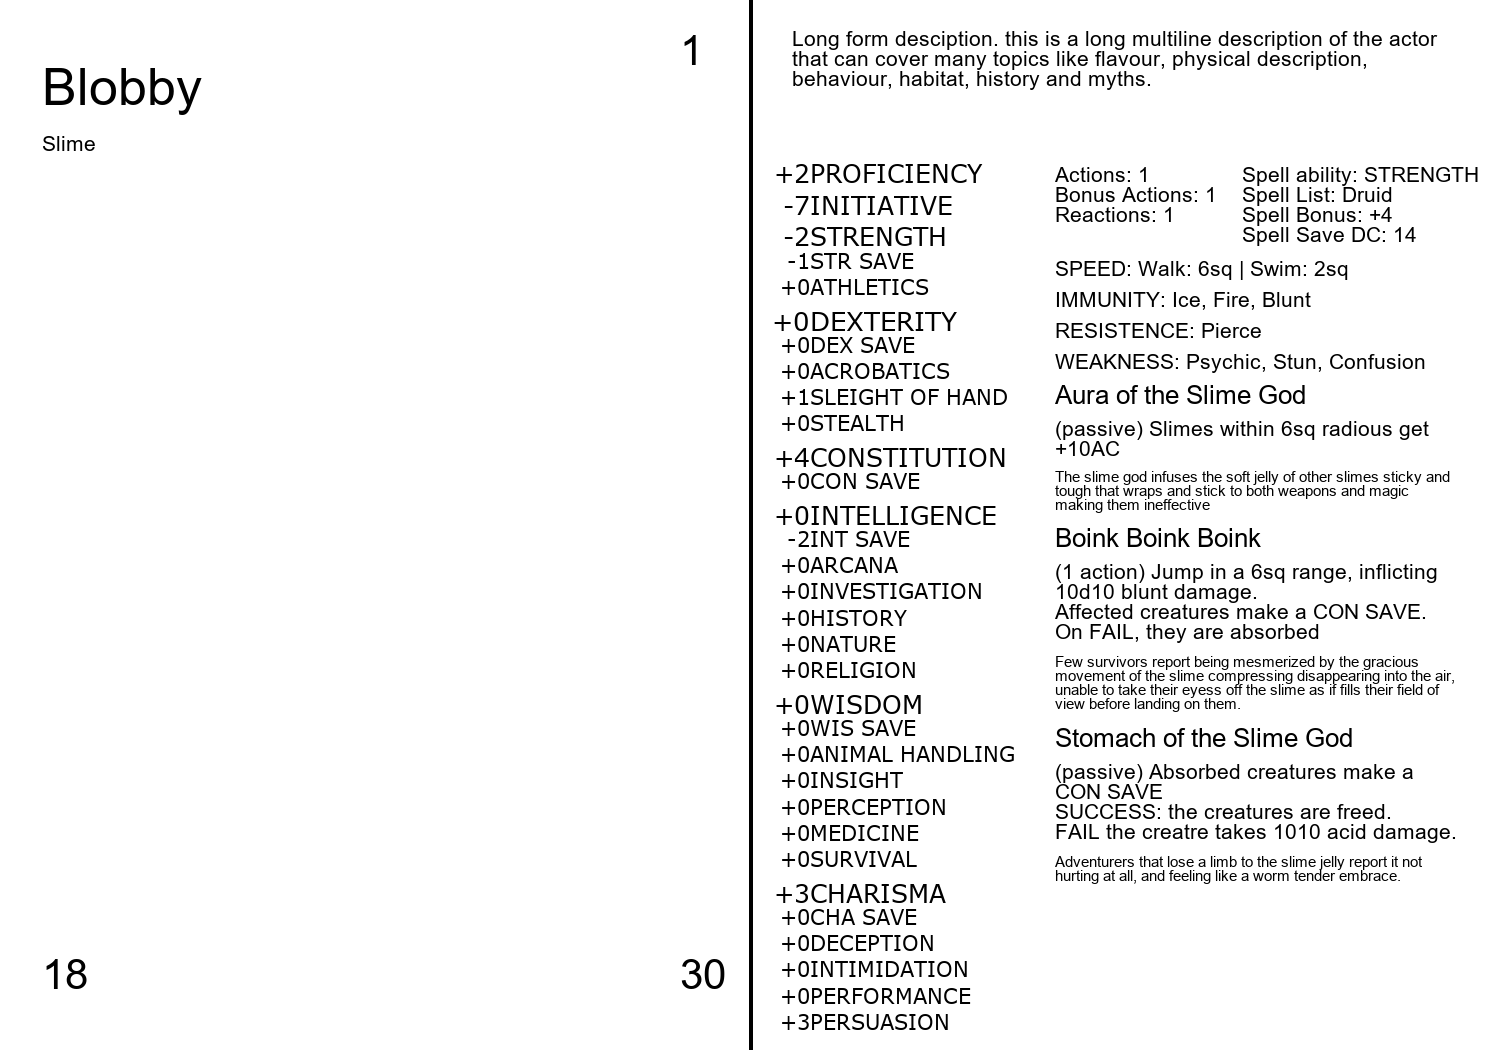
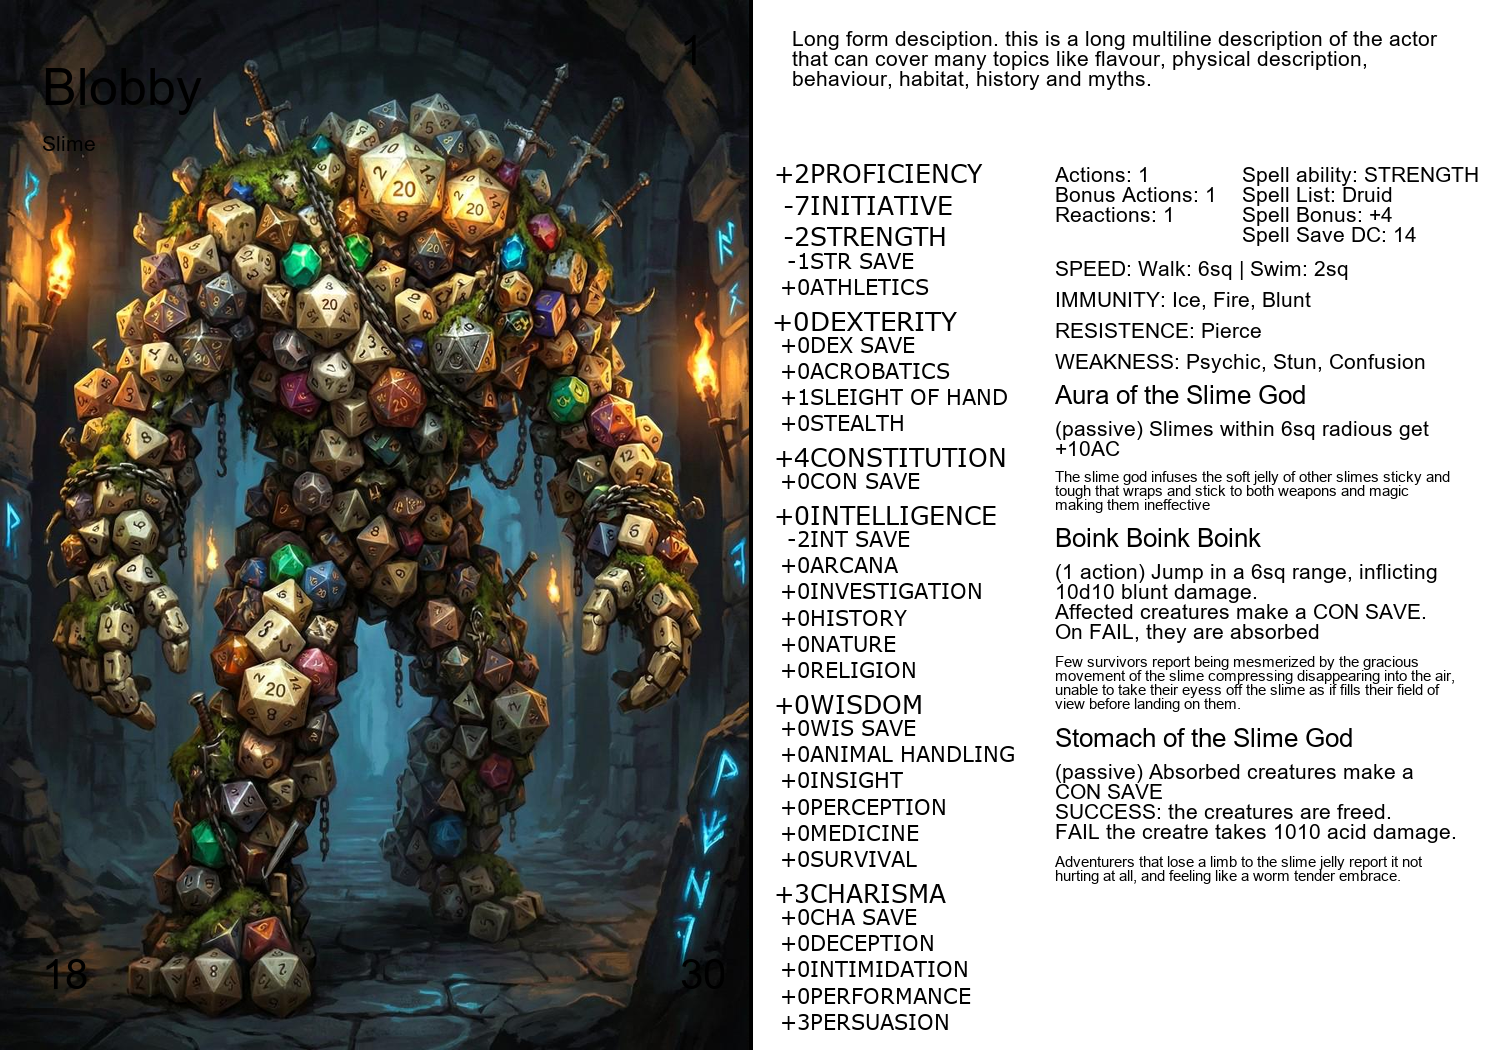
successfully draw the illustration on the front image, now I take care of the mask

diff --git a/src/lib/cl_generator.py b/src/lib/cl_generator.py
@@ -540,6 +540,9 @@ class Cl_npc_character_sheet_generator:
             The generated image object.
         """
         
+        #SIZE of the image
+        t_size_front = self.g_cl_image_card_back.get_size()
+
         #----------------------------------------------------------------------
         #   LOAD JSON
         #----------------------------------------------------------------------
@@ -551,6 +554,24 @@ class Cl_npc_character_sheet_generator:
         cl_npc : Cl_npc = Cl_npc()
         cl_npc.load_from_file( i_ls_npc_json_path )
         logging.debug(f"Loading NPC from file: {cl_npc}")
+
+        #----------------------------------------------------------------------
+        #   DRAW: ILLUSTRATION FRONT
+        #----------------------------------------------------------------------
+
+        #create an image for the NPC ilustration
+        g_npc_illustration : St_image = St_image(
+            i_w_card_mm = self.g_w_card_width_mm,
+            i_h_card_mm = self.g_h_card_height_mm,
+            i_dot_per_inch = self.g_n_dots_per_inch
+        )
+
+        #load the NPC illustration and resize it
+        g_npc_illustration.load_image( i_ls_npc_illustration_path )
+        #g_npc_illustration.save_image(["text_npc.jpg"])
+
+        #draw NPC illustration on the front
+        self.g_cl_image_card_front.draw_image( g_npc_illustration, (0,0), t_size_front )
 
         #----------------------------------------------------------------------
         #   DRAW: FRONT
@@ -596,17 +617,6 @@ class Cl_npc_character_sheet_generator:
 
         #i_ls_mask_front_path
 
-        g_npc_illustration : St_image = St_image(
-            i_w_card_mm = self.g_w_card_width_mm,
-            i_h_card_mm = self.g_h_card_height_mm,
-            i_dot_per_inch = self.g_n_dots_per_inch
-        )
-
-        g_npc_illustration.load_image( i_ls_npc_illustration_path )
-        g_npc_illustration.save_image(["text_npc.jpg"])
-
-        #draw the front on the main image with offset
-        t_size_front = self.g_cl_image_card_back.get_size()
         self.g_cl_image_card.draw_image( self.g_cl_image_card_front, (0,0), t_size_front )
 
         #draw the back on the main image with offset
